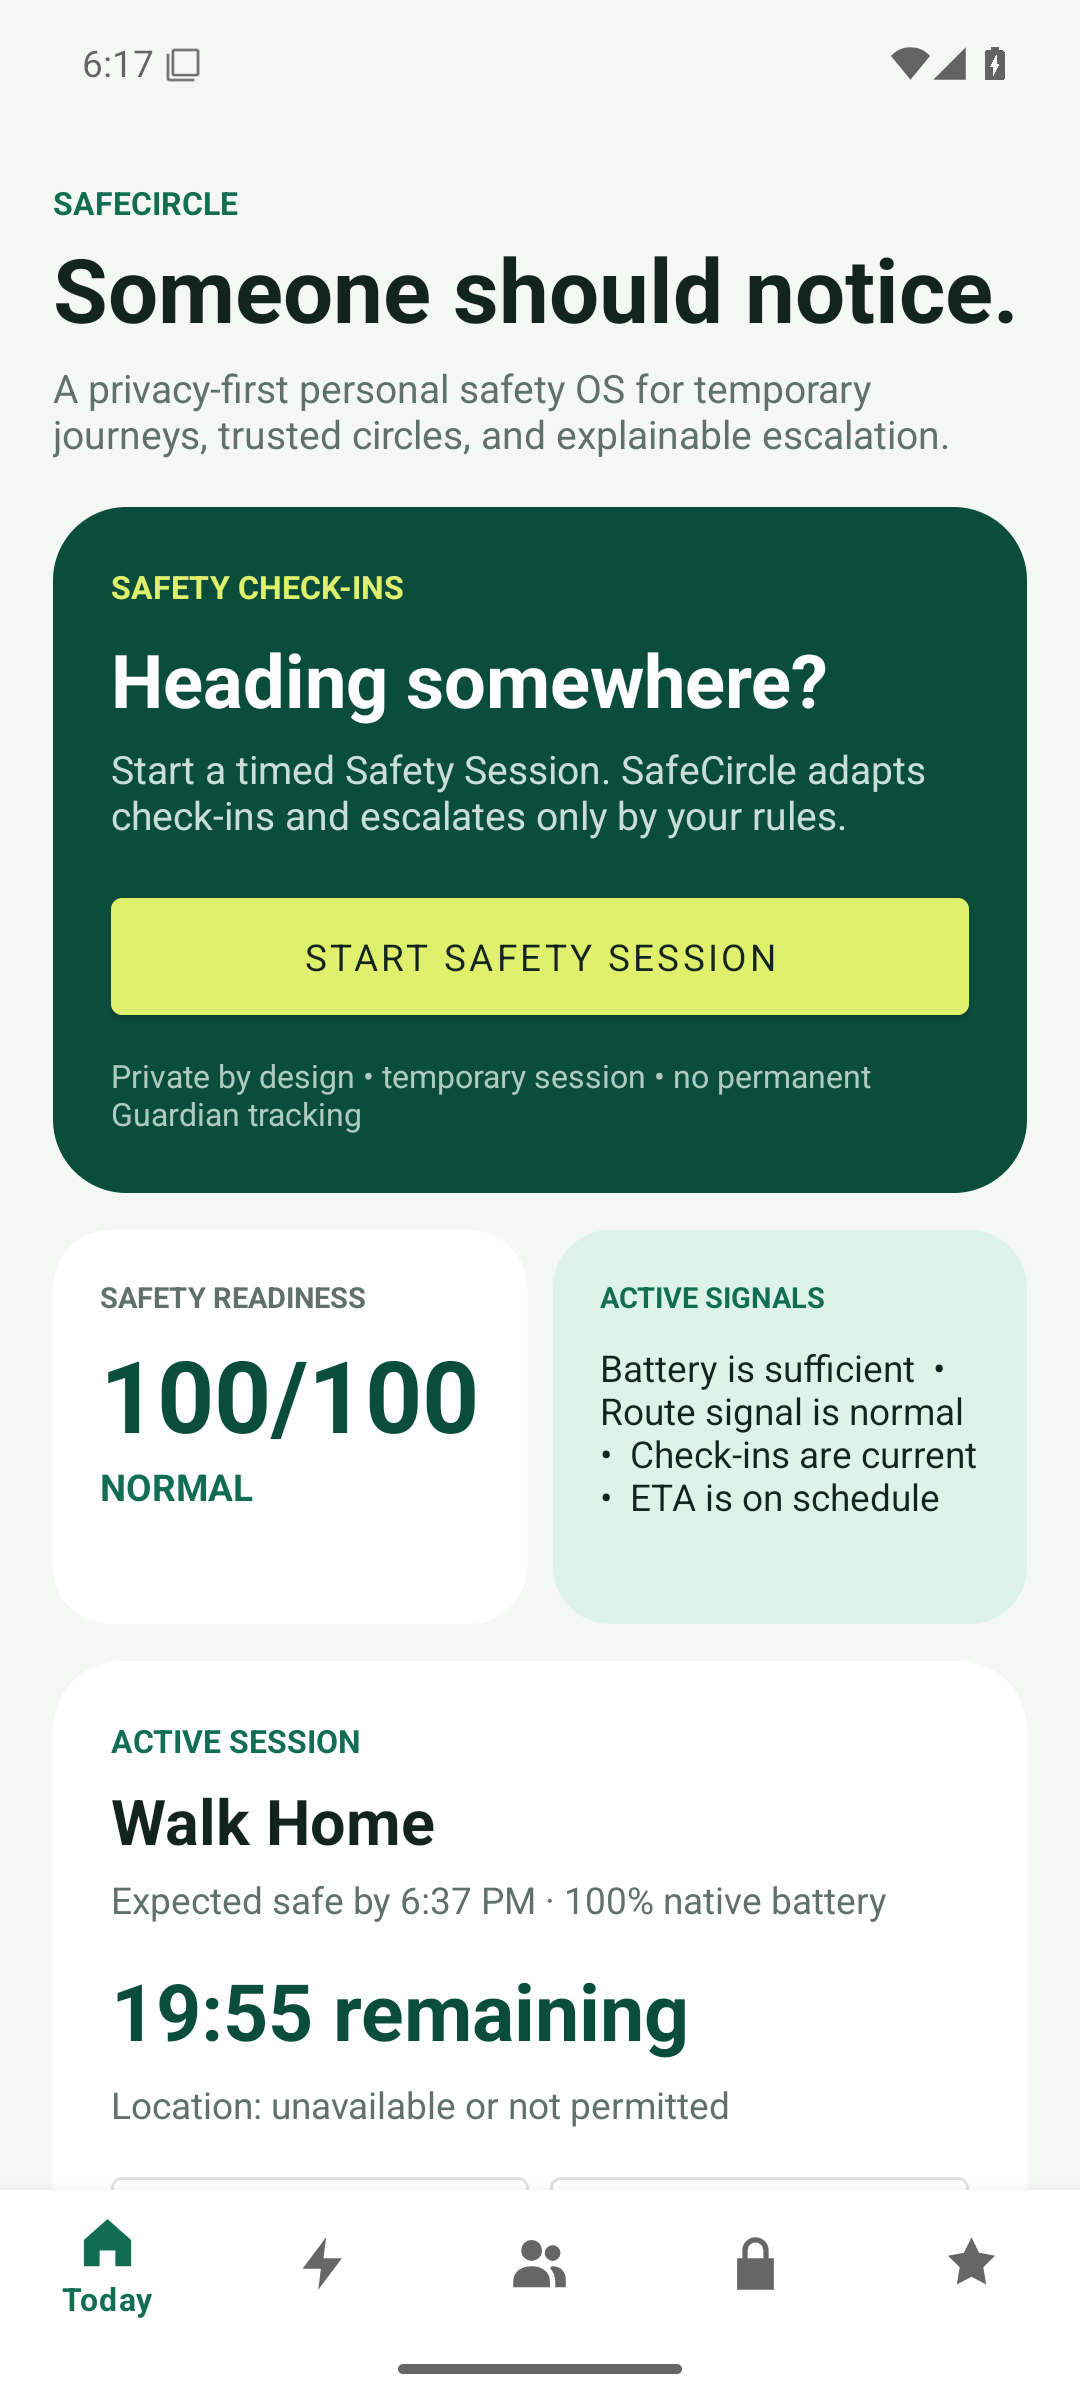
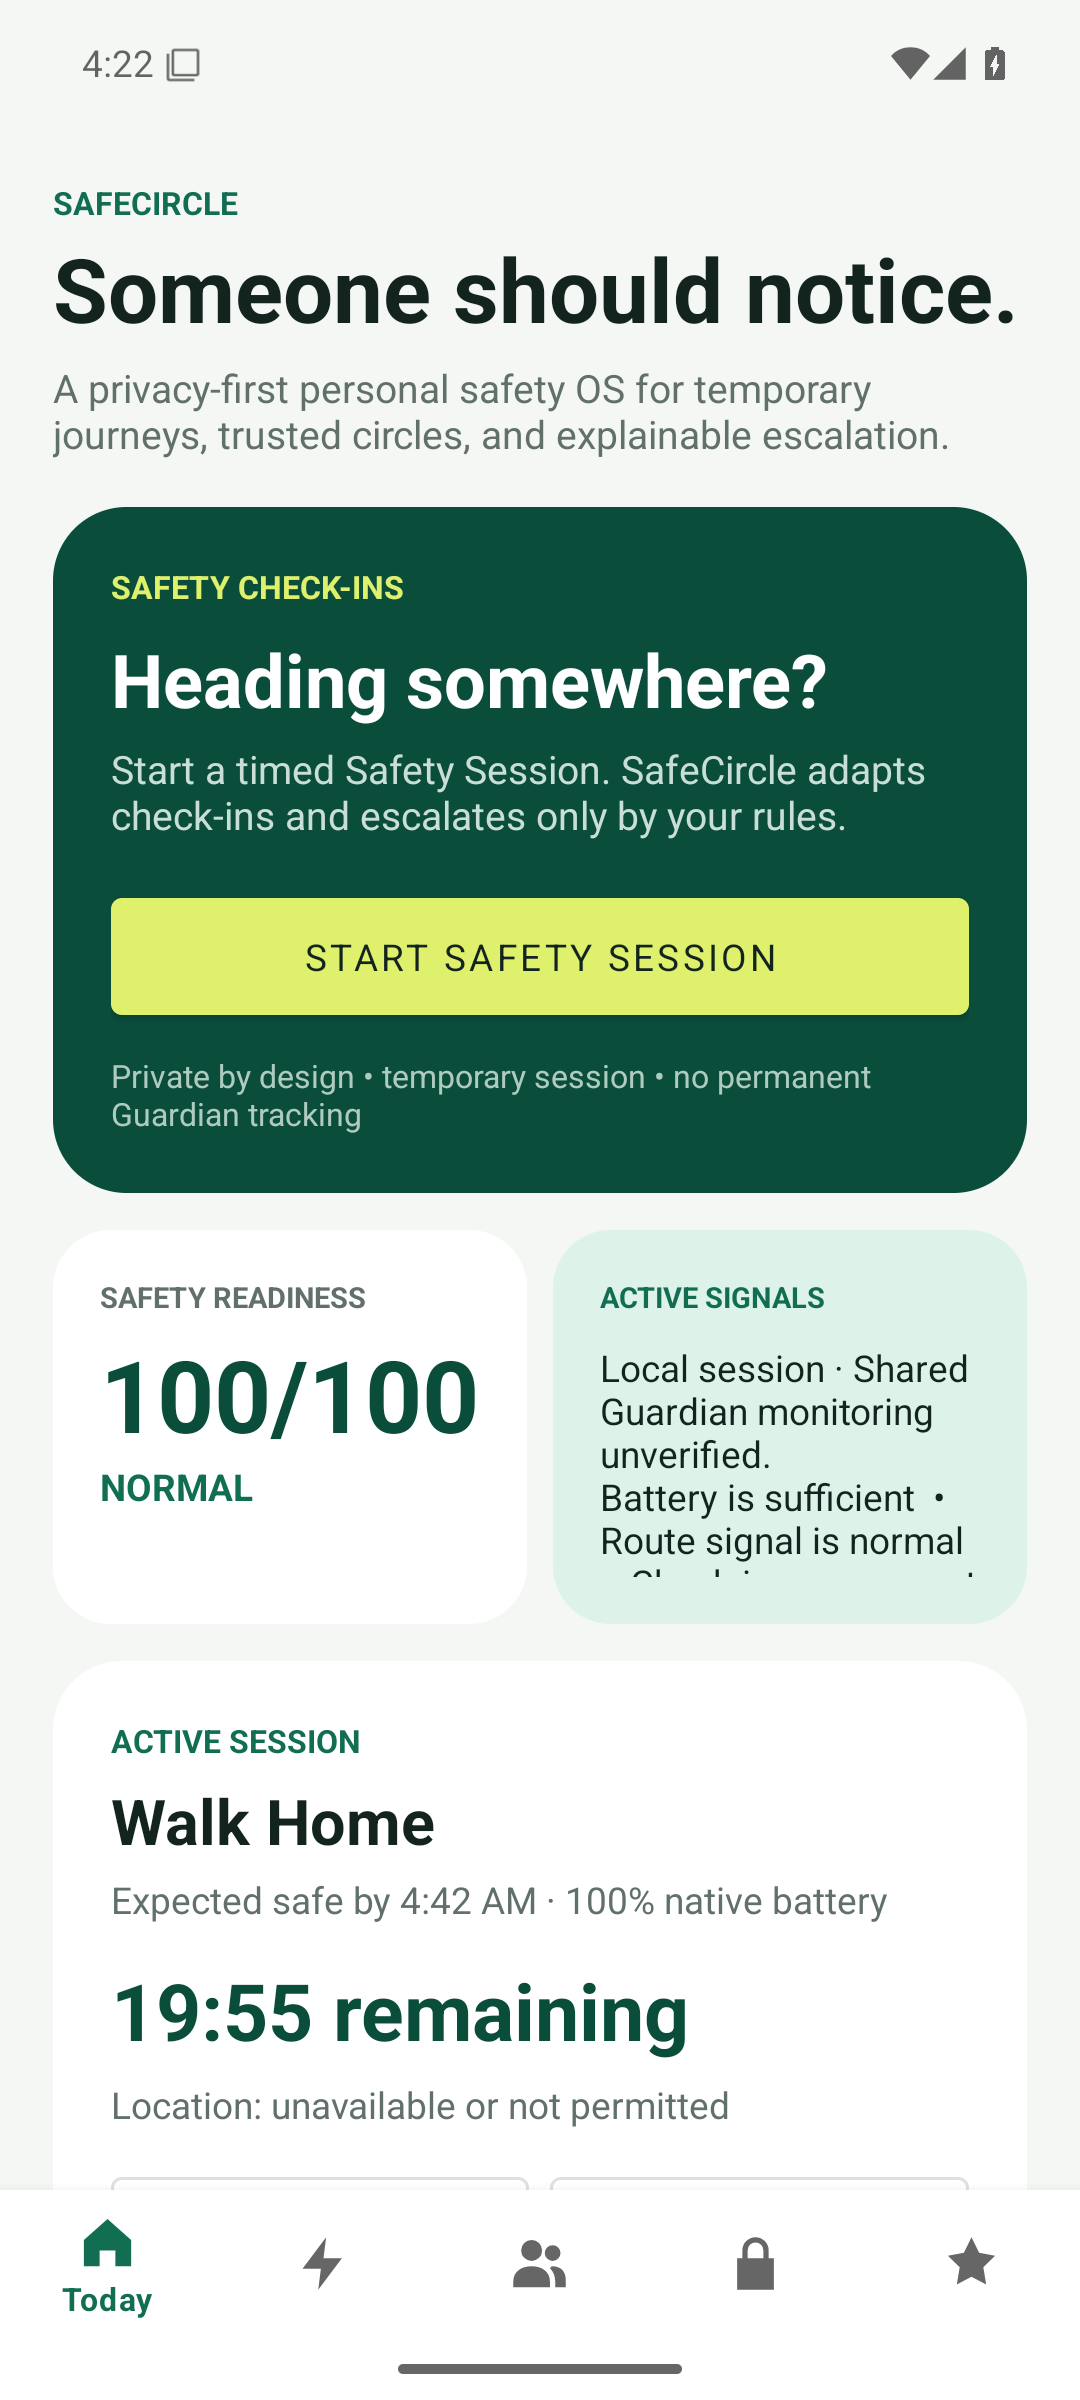
Refresh native screenshots and record verified provider and session regressions

Changed region(s): [[0.55, 0.5625, 0.9167, 0.6562], [0.3667, 0.7812, 0.4889, 0.8125], [0.55, 0.7812, 0.5806, 0.8125]]

diff --git a/README.md b/README.md
@@ -5,7 +5,7 @@
 <p align="center"><strong>Temporary safety check-ins. A trusted circle. Privacy on your terms.</strong></p>
 <p align="center">
   <a href="#screenshots">Screenshots</a> ·
-  <a href="https://github.com/harshapriyag123/safecircle/actions/runs/36947929871/artifacts/11202692715">Download debug APK</a> ·
+  <a href="https://github.com/harshapriyag123/safecircle/actions/workflows/android.yml">Download debug APK</a> ·
   <a href="https://safecircle-site.vercel.app/site">Public preview</a> ·
   <a href="docs/SHIPATON.md">Shipaton checklist</a> ·
   <a href="https://github.com/harshapriyag123/safecircle/pull/2">Implementation PR</a>
@@ -57,8 +57,8 @@ The [website demo screenshot](web/site/assets/guardian-demo.png) depicts a ficti
 
 | Area | Verified evidence | Still needed |
 | --- | --- | --- |
-| Backend | 51 SQLite tests and PostgreSQL CI passed | Redeployment persistence and real provider delivery |
-| Android | 11 unit tests, lint (0 errors; 414 warnings), debug APK and Android 15 offline workflow passed | Store test track, billing configuration and physical-device background tests |
+| Backend | 72 SQLite tests (2 PostgreSQL-only skips), 74 PostgreSQL tests and controlled redeployment persistence passed | Continuous scheduler and real provider delivery |
+| Android | Unit tests, lint, debug APK and Android 15 offline workflow passed, including unresolved-session identity preservation | Store test track, billing configuration and physical-device background tests |
 | iOS reference client | Simulator build with RevenueCat/RevenueCatUI passed | Signing, device purchases and full Android feature parity |
 | Web/Guardian | Desktop/mobile browser checks, signed acknowledgement/resolution and privacy checks passed | Continuous scheduler/provider checks and native demo video |
 | RevenueCat | SDK and server lifecycle/reconciliation code checked | Actual offerings/products, purchases, restore and Customer Center verification |
@@ -108,7 +108,7 @@ adb install -r app/build/outputs/apk/debug/app-debug.apk
 
 Android CI repeats these tasks and uploads the APK and reports. Download the latest successful PR run's `safecircle-debug-*` ZIP from [Actions](https://github.com/harshapriyag123/safecircle/actions/workflows/android.yml); unzip `app-debug.apk`. Artifacts expire after 30 days and downloads require GitHub sign-in. Debug installation does not qualify as a public store release.
 
-Sign in, create a session and configure distinct E.164 Primary/Backup phone contacts only with their consent. Guardian link creation and SMS provider delivery are separate operations. External notifications require production provider configuration. Use test participants until delivery and background-device behavior are verified.
+The Android start flow is explicitly labeled local, with shared Guardian monitoring unverified. An unresolved session cannot be silently replaced. Server-monitored session creation remains blocked while the deployed worker is unavailable. Sign in and configure distinct E.164 Primary/Backup phone contacts only with their consent. Guardian link creation and SMS provider delivery are separate operations. External notifications require production provider configuration. Use test participants until delivery and background-device behavior are verified.
 
 ## Backend and website
 

diff --git a/docs/VERIFICATION.md b/docs/VERIFICATION.md
@@ -71,3 +71,16 @@ Local backend: 72 passed, 2 PostgreSQL-only skips. Tests exercise missing adapte
 Android follow-up adds an emulator regression for preserving the active session identity after another start attempt and checks the local/unverified monitoring label. Final-head Android CI must pass before treating that check as evidence.
 
 Receipt validation also covers nested array/object status values; authenticated malformed JSON returns 422 rather than a server error.
+
+## Verified provider/native follow-up evidence
+
+Implementation head `0a5f4498031427c3939f51058d0da549519e9966` passed all four workflows:
+
+- [Android tests, lint, assembly and emulator](https://github.com/harshapriyag123/safecircle/actions/runs/36963767575): the attempted second start preserved the unresolved session identity; the local/unverified label, check-in, ETA extension and resolution passed. Updated screenshots under `docs/screenshots/` come from this run.
+- [Backend](https://github.com/harshapriyag123/safecircle/actions/runs/36963767564): 74 PostgreSQL tests and 72 SQLite tests (2 PostgreSQL-only skips) passed; three scheduler adapter tests passed in each matrix job. These are adapter tests, not observed scheduled execution.
+- [Website](https://github.com/harshapriyag123/safecircle/actions/runs/36963767574): companion and Guardian browser regressions passed.
+- [iOS](https://github.com/harshapriyag123/safecircle/actions/runs/36963767585): simulator compilation passed; no simulator interaction, physical-device or store purchase verification is inferred.
+
[1 lines of base64/hex data omitted]
+
+Vercel deployment `9H4Tiz9Hf8qDSqijBm3de3RN4Xvd` was observed Ready, Current Production, with source `0a5f449` and the preserved public domain. Public landing/privacy/companion routes returned 200; unauthenticated worker and push receipt requests returned 401. Health returned 503 with `backend_ready=true`, `worker_ready=false`, correctly blocking monitored session creation. The documentation follow-up has no runtime changes; its exact CI/deployment head is recorded on PR #2 after validation.

diff --git a/docs/EXTERNAL_REQUIREMENTS.md b/docs/EXTERNAL_REQUIREMENTS.md
@@ -9,7 +9,7 @@ continuous monitoring or delivery. No Railway setup is required.
    Workers Free account to provision `scheduler/cloudflare`, or supply another
    reviewed free platform capable of minute-level execution. The adapter and
    tests are complete; deployment and at least two platform-scheduled ticks are
-   not verified. Manual diagnostic ticks are not a scheduler. Track Vercel/Neon/
+   not verified. Cloudflare dashboard access was blocked by its browser security verification; use an authorized account/CLI route once access is available. Manual diagnostic ticks are not a scheduler. Track Vercel/Neon/
    Cloudflare free quotas; exhausted quotas can pause service. No paid overage,
    payment method or automatic upgrade is authorized. Continuous database traffic
    consumes Neon compute allowance and cannot be promised indefinitely for $0.
